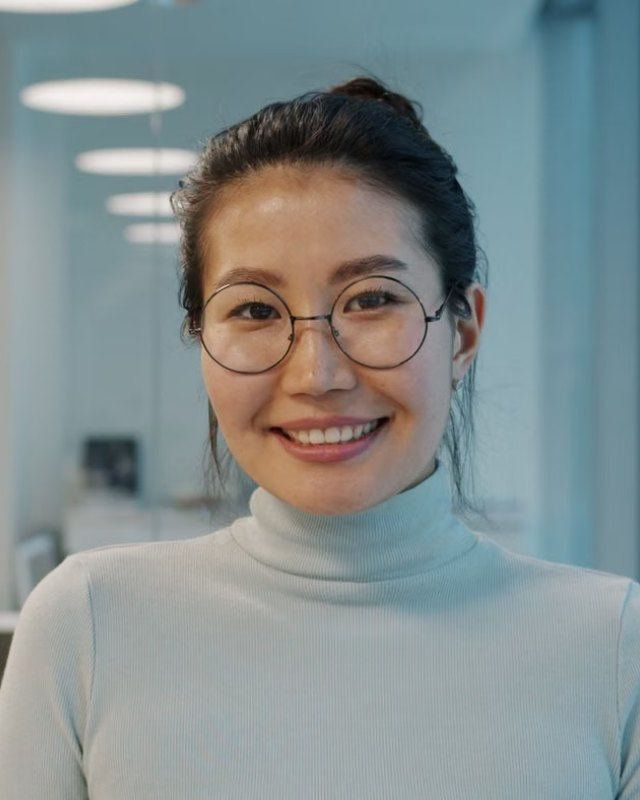
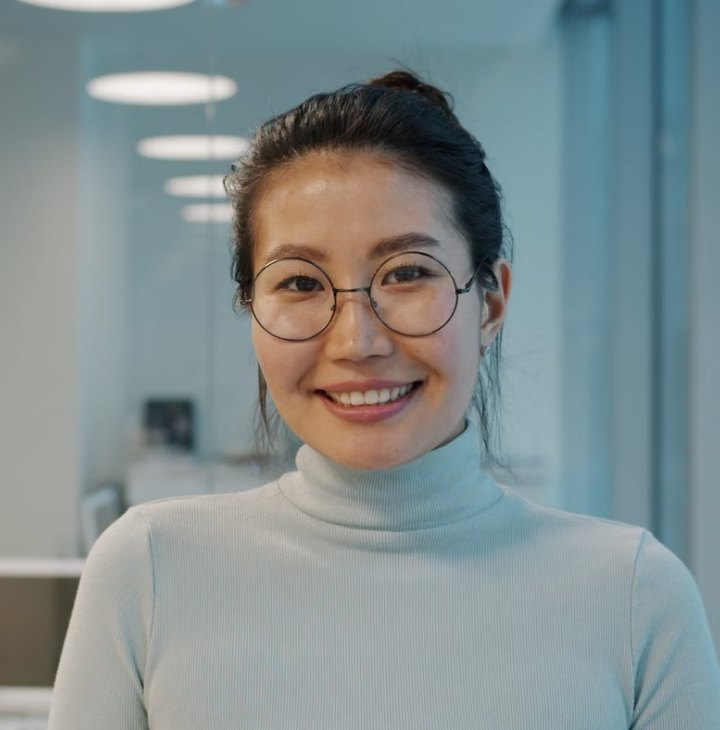
The photo leads again, and the badge is the real mark
The card goes back to the layout that was working: the photograph is
the card and the quote sits in its foot. That only ever failed because
of the casting, not the composition — so with faces looking back at
you it earns more room than it had, and the card grows to 288x384 with
a 292px photo window.

The portraits are re-cut at that window's own aspect, so cover has
nothing left to trim and nobody loses the top of their head.

The provenance badge is a real logo now, not a monochrome glyph: the
App Store's blue tile and white A rather than the Apple mark, Google
Play's coloured triangle on white, X and TikTok on black with TikTok's
cyan and magenta offsets intact. It sits on the photograph with its
own shadow so it stays legible over any image.

The loader's three questions are replaced with the ones asked for —
how the two words felt, whether a name or place tripped them up, and
whether they want more of this — in English, French, Italian and
Portuguese, options included.

diff --git a/app.js b/app.js
@@ -614,18 +614,43 @@ function railAutoSlide(rail, { interval = 3200, firstDelay = null, onActive = nu
 /* ---------- testimonials ----------
    Posts read in the user's language; each one carries the icon of the
    store/network it came from. */
+/* Real store / network marks, not monochrome glyphs: the badge is
+   doing credibility work, so it has to look like the thing it is.
+   Drawn as tiles because that is how these logos are recognised. */
 const SRC_ICONS = {
-  x: '<svg viewBox="0 0 24 24" fill="currentColor"><path d="M17.6 3h3l-6.6 7.55L21.8 21h-6.1l-4.8-6.3L5.4 21h-3l7.1-8.1L2.5 3h6.25l4.35 5.75L17.6 3Zm-1.05 16.2h1.7L7.85 4.7H6.05l10.5 14.5Z"/></svg>',
-  play: '<svg viewBox="0 0 24 24"><path fill="#34A853" d="M3 20.42V3.58c0-.6.34-1.12.85-1.37L13.6 12 3.85 21.79A1.53 1.53 0 0 1 3 20.42Z"/><path fill="#EA4335" d="M16.81 15.36 6.15 21.42l8.4-8.4 2.26 2.34Z"/><path fill="#FBBC04" d="M20.16 10.83c.5.3.84.85.84 1.17 0 .32-.3.87-.81 1.17l-2.22 1.28-2.5-2.45 2.5-2.45 2.19 1.28Z"/><path fill="#4285F4" d="M6.15 2.58l10.66 6.06-2.26 2.34-8.4-8.4Z"/></svg>',
-  app: '<svg viewBox="0 0 24 24" fill="currentColor"><path d="M16.36 12.5c.02-2.02 1.65-2.99 1.72-3.04-.94-1.37-2.4-1.56-2.92-1.58-1.24-.13-2.42.73-3.05.73-.63 0-1.6-.71-2.63-.69-1.35.02-2.6.79-3.29 2-1.4 2.43-.36 6.03 1.01 8 .67.96 1.47 2.04 2.51 2 1.01-.04 1.39-.65 2.61-.65s1.57.65 2.63.63c1.09-.02 1.78-.98 2.44-1.95.77-1.11 1.09-2.19 1.11-2.25-.02-.01-2.13-.82-2.15-3.25ZM14.4 6.6c.56-.68.93-1.62.83-2.56-.8.03-1.78.53-2.35 1.21-.51.6-.96 1.56-.84 2.48.89.07 1.8-.45 2.36-1.13Z"/></svg>',
-
-  tiktok: '<svg viewBox="0 0 24 24" fill="currentColor"><path d="M16.6 5.82A4.28 4.28 0 0 1 15.54 3h-3.09v12.4a2.59 2.59 0 1 1-1.82-2.47v-3.1a5.68 5.68 0 1 0 4.91 5.62V9.01a7.35 7.35 0 0 0 4.3 1.38V7.3a4.29 4.29 0 0 1-3.24-1.48Z"/></svg>',
+  app: `<svg viewBox="0 0 32 32">
+      <defs><linearGradient id="asG" x1="0" y1="0" x2="0" y2="1">
+        <stop offset="0" stop-color="#1FC8FC"/><stop offset="1" stop-color="#1273EE"/>
+      </linearGradient></defs>
+      <rect width="32" height="32" rx="7.4" fill="url(#asG)"/>
+      <g stroke="#fff" stroke-width="2.4" stroke-linecap="round" fill="none">
+        <path d="M9.2 22.6 16 10.2l6.8 12.4"/><path d="M11.9 18.4h8.2"/>
+      </g>
+    </svg>`,
+  play: `<svg viewBox="0 0 32 32">
+      <rect width="32" height="32" rx="7.4" fill="#fff"/>
+      <g transform="translate(7 6.4) scale(.805)">
+        <path fill="#34A853" d="M0 22.9V1.1c0-.78.44-1.45 1.1-1.77L13.7 12 1.1 24.67A1.98 1.98 0 0 1 0 22.9Z"/>
+        <path fill="#EA4335" d="M17.9 16.35 4.1 24.2 15 13.33l2.9 3.02Z"/>
+        <path fill="#FBBC04" d="M22.24 10.5c.65.38 1.09 1.1 1.09 1.5s-.39 1.13-1.05 1.51l-2.87 1.66-3.24-3.17 3.24-3.17 2.83 1.67Z"/>
+        <path fill="#4285F4" d="M4.1 -.2 17.9 7.65 15 10.67 4.1 -.2Z"/>
+      </g>
+    </svg>`,
+  x: `<svg viewBox="0 0 32 32">
+      <rect width="32" height="32" rx="7.4" fill="#000"/>
+      <path fill="#fff" d="M20.6 8h2.6l-5.7 6.5L24 24h-5.2l-4.1-5.4L9.9 24H7.3l6.1-7L7 8h5.4l3.7 4.9L20.6 8Zm-.9 14.5h1.45L12.4 9.4h-1.55l8.85 13.1Z"/>
+    </svg>`,
+  tiktok: `<svg viewBox="0 0 32 32">
+      <rect width="32" height="32" rx="7.4" fill="#000"/>
+      <g transform="translate(4 4)">
+        <path fill="#25F4EE" d="M15.7 4.82A4.28 4.28 0 0 1 14.64 2h-3.09v12.4a2.59 2.59 0 1 1-1.82-2.47v-3.1a5.68 5.68 0 1 0 4.91 5.62V8.01a7.35 7.35 0 0 0 4.3 1.38V6.3a4.29 4.29 0 0 1-3.24-1.48Z"/>
+        <path fill="#FE2C55" d="M17.5 6.82A4.28 4.28 0 0 1 16.44 4h-3.09v12.4a2.59 2.59 0 1 1-1.82-2.47v-3.1a5.68 5.68 0 1 0 4.91 5.62V10.01a7.35 7.35 0 0 0 4.3 1.38V8.3a4.29 4.29 0 0 1-3.24-1.48Z"/>
+        <path fill="#fff" d="M16.6 5.82A4.28 4.28 0 0 1 15.54 3h-3.09v12.4a2.59 2.59 0 1 1-1.82-2.47v-3.1a5.68 5.68 0 1 0 4.91 5.62V9.01a7.35 7.35 0 0 0 4.3 1.38V7.3a4.29 4.29 0 0 1-3.24-1.48Z"/>
+      </g>
+    </svg>`,
 };
 /* how the quote is labelled — the store or network it came off */
 const SRC_LABEL = { app: 'App Store', play: 'Google Play', x: 'X', tiktok: 'TikTok' };
-const STAR5 = '<svg viewBox="0 0 24 24" fill="currentColor"><path d="M12 2.6l2.85 5.9 6.5.88-4.72 4.5 1.16 6.4L12 17.15 6.21 20.3l1.16-6.4-4.72-4.5 6.5-.89z"/></svg>'.repeat(5);
-const T_AVATARS = ['avatar-syahrier.png', 'avatar-t2.png', 'avatar-t3.png'];
-const T_SOURCES = ['x', 'play', 'app'];
 
 async function testimonialCarousel(goal){
   const list = (C.TESTIMONIALS[goal] || C.TESTIMONIALS.career);
@@ -633,13 +658,14 @@ async function testimonialCarousel(goal){
   const rail = wrap.querySelector('.testimonial-rail');
   list.forEach(t => rail.appendChild(el(`
     <div class="t-card">
-      <div class="tc-head">
-        <img class="tc-av" src="assets/people/${t.img}-face.jpg" alt="">
+      <img class="tc-photo" src="assets/people/${t.img}.jpg" alt="">
+      <div class="tc-scrim"></div>
+      <i class="tc-src" title="${SRC_LABEL[t.s] || ''}">${SRC_ICONS[t.s] || SRC_ICONS.app}</i>
+      <div class="tc-body">
+        <p class="tc-quote">\u201C${t.q}\u201D</p>
+        <i class="tc-rule"></i>
         <div class="tc-who"><b>${t.n}</b><span>${t.r}</span></div>
-        <i class="tc-src tcs-${t.s || 'app'}" title="${SRC_LABEL[t.s] || ''}">${SRC_ICONS[t.s] || SRC_ICONS.app}</i>
       </div>
-      <span class="tc-stars">${STAR5}</span>
-      <p class="tc-quote">\u201C${t.q}\u201D</p>
     </div>`)));
   chatStream.appendChild(wrap);
   scrollToEnd();
@@ -2129,9 +2155,11 @@ const LDR_STEPS = [
   'Shaping your roadmap',
 ];
 const LDR_QS = [
-  { q: null, opts: ['Too easy', 'Just right', 'Still tricky'] },   /* q filled with the drill words */
-  { q: 'Did your score match how you think you speak?', opts: ['Spot on', 'Close', 'Harsher than I expected'] },
-  { q: 'How do you feel about your starting score?', opts: ['Proud of it', "It's okay", 'I want it higher'] },
+  { q: null, opts: ['Easy', 'Just right', 'Hard'] },   /* q filled with the drill words */
+  { q: 'Did you get a pronunciation mistake while saying a name or place?',
+    opts: ['Yes', 'No', 'Not sure'] },
+  { q: 'Would you like to practice more words like these?',
+    opts: ['Yes, more', 'This is enough', 'Fewer'] },
 ];
 function ldrRing(pct){
   $('ldrArc').setAttribute('stroke-dasharray', `${440 * pct / 100} 440`);
@@ -2200,7 +2228,7 @@ async function planLoader(didPron, goal){
 
   if (didPron){
     /* Q1 names their own drill words */
-    LDR_QS[0].q = CL('How did practicing \u201C{a}\u201D and \u201C{b}\u201D feel?')
+    LDR_QS[0].q = CL('How was it to say \u201C{a} and {b}\u201D?')
       .replace('{a}', PRON_WORDS[0].w).replace('{b}', PRON_WORDS[1].w);
     await wait(FF ? 40 : 900);
     ldrStepState(['done', 'done', 'on', '']);

diff --git a/styles.css b/styles.css
@@ -3512,75 +3512,64 @@ body{
 .gp-line{font-family:var(--font-body);font-size:14.5px;line-height:19px;color:var(--text-low);}
 .gp-line b{color:var(--text-hi);font-weight:600;}
 
-/* --- 3. testimonials: the quote is the card ------------------
-   The photo used to be the card and the words sat on top of it, which
-   made every one of them read as advertising. Now the face is an
-   avatar, the quote is the hero, and a store badge says where the
-   review came from — the shape people already trust. */
+/* --- 3. photo testimonials (Beside) ------------------------
+   The photo leads and the words sit in its foot. It only works when
+   the photograph is a person looking back at you, which is what the
+   2026-09-04 recast is for — so the card is bigger than it was, to
+   give those faces the room they earn. */
 .t-card{
   position:relative;
   flex-shrink:0;
-  width:270px;
-  min-height:186px;
-  border-radius:20px;
+  width:288px;
+  height:384px;
+  border-radius:22px;
   overflow:hidden;
-  display:flex;
-  flex-direction:column;
-  gap:11px;
-  padding:16px 16px 18px;
   /* Warm charcoal against the cool blue page: it separates by
-     temperature rather than by an indigo glow. */
+     temperature rather than by an indigo glow, which was doing the
+     lifting before and reading as a halo stuck on a flat rectangle. */
   background:#211D1B;
   scroll-snap-align:center;
   border:1px solid rgba(255,255,255,.085);
+  padding:0;
   backdrop-filter:none;
   box-shadow:
-    0 18px 40px -16px rgba(0,0,0,.85),
+    0 20px 46px -16px rgba(0,0,0,.85),
     inset 0 1px 0 rgba(255,255,255,.06);
 }
 .t-card::after{content:none;}
-.tc-head{display:flex;align-items:center;gap:10px;}
-.tc-av{
-  width:42px;height:42px;flex:0 0 42px;
-  border-radius:50%;
-  object-fit:cover;
-  display:block;
-  border:1px solid rgba(255,255,255,.14);
+/* The photo is masked out at its foot instead of stopping on a line,
+   so it dissolves into the card rather than sitting on top of it.
+   The crops are cut at this window's exact aspect (720x730), so cover
+   has nothing left to trim and no head loses its top. */
+.tc-photo{
+  position:absolute;inset:0 0 auto 0;width:100%;height:292px;
+  object-fit:cover;display:block;
+  -webkit-mask-image:linear-gradient(180deg,#000 0%,#000 44%,rgba(0,0,0,.72) 66%,rgba(0,0,0,.28) 84%,transparent 100%);
+          mask-image:linear-gradient(180deg,#000 0%,#000 44%,rgba(0,0,0,.72) 66%,rgba(0,0,0,.28) 84%,transparent 100%);
 }
-.tc-who{min-width:0;flex:1;}
-.tc-who b{
-  display:block;
-  font-family:var(--font-display);font-weight:600;font-size:14px;
-  color:var(--text-hi);
-  white-space:nowrap;overflow:hidden;text-overflow:ellipsis;
+.tc-scrim{
+  position:absolute;left:0;right:0;top:148px;height:236px;
+  background:linear-gradient(180deg,rgba(33,29,27,0),rgba(33,29,27,.72) 48%,rgba(33,29,27,.96) 78%,#211D1B);
 }
-.tc-who span{
-  display:block;
-  font-family:var(--font-body);font-size:12px;line-height:16px;
-  color:var(--text-low);
-  white-space:nowrap;overflow:hidden;text-overflow:ellipsis;
-}
-/* the badge keeps each network's own mark and colour, small enough
-   to read as provenance rather than as a logo placement */
+/* where the review came from, as the real mark. It sits on the photo,
+   so it carries its own shadow to stay legible over anything. */
 .tc-src{
-  flex:0 0 22px;
-  width:22px;height:22px;
-  display:flex;align-items:center;justify-content:center;
-  opacity:.9;
+  position:absolute;top:14px;right:14px;
+  width:30px;height:30px;
+  display:block;
+  border-radius:7px;
+  overflow:hidden;
+  box-shadow:0 3px 10px rgba(0,0,0,.45), 0 0 0 1px rgba(255,255,255,.14);
 }
 .tc-src svg{width:100%;height:100%;display:block;}
-.tcs-app{color:#F2F0FA;}
-.tcs-x{color:#F2F0FA;}
-.tcs-tiktok{color:#F2F0FA;}
-.tc-stars{display:flex;gap:2px;color:#D9A24A;}
-.tc-stars svg{width:13px;height:13px;display:block;}
+.tc-body{position:absolute;left:0;right:0;bottom:0;padding:18px;display:flex;flex-direction:column;gap:10px;}
 .tc-quote{
-  margin:0;
-  font-family:var(--font-display);font-weight:600;
-  font-size:16px;line-height:23px;
-  letter-spacing:-.01em;
-  color:#fff;
+  margin:0;font-family:var(--font-display);font-weight:600;
+  font-size:16.5px;line-height:23px;letter-spacing:-.01em;color:#fff;
 }
+.tc-rule{height:1px;background:rgba(255,255,255,.16);}
+.tc-who b{display:block;font-family:var(--font-display);font-weight:600;font-size:14px;color:var(--text-mid);}
+.tc-who span{font-family:var(--font-body);font-size:13px;color:var(--text-low);}
 
 /* --- 4. the iOS system alert ------------------------------- */
 .ios-alert-wrap{

diff --git a/i18n.js b/i18n.js
@@ -315,6 +315,18 @@ const STR = {
     graph_title: 'Dans les 8 prochains mois,<br>on t’emmène vers <span class="lav">« Avancé »</span>',
     graph_body: 'Au cours des 8 prochains mois, tu feras progresser ta prononciation, ta grammaire, ta fluidité et ton vocabulaire, avec des progrès visibles chaque mois.',
     content: {
+      "How was it to say “{a} and {b}”?": "C’était comment de dire « {a} » et « {b} » ?",
+      "Easy": "Facile",
+      "Just right": "Juste bien",
+      "Hard": "Difficile",
+      "Did you get a pronunciation mistake while saying a name or place?": "As-tu fait une erreur de prononciation sur un nom ou un lieu ?",
+      "Yes": "Oui",
+      "No": "Non",
+      "Not sure": "Je ne sais pas",
+      "Would you like to practice more words like these?": "Tu veux travailler d’autres mots comme ceux-là ?",
+      "Yes, more": "Oui, plus",
+      "This is enough": "C’est suffisant",
+      "Fewer": "Moins",
       "Checking each word": "Je vérifie chaque mot",
       "Scoring your sounds": "J’évalue tes sons",
       "Still with you": "Je suis toujours là",
@@ -817,6 +829,18 @@ const STR = {
     graph_title: 'Nei prossimi 8 mesi<br>ti portiamo ad <span class="lav">“Avanzato”</span>',
     graph_body: 'Nei prossimi 8 mesi migliorerai pronuncia, grammatica, fluidità e vocabolario, con progressi visibili ogni mese.',
     content: {
+      "How was it to say “{a} and {b}”?": "Com’è stato dire “{a}” e “{b}”?",
+      "Easy": "Facile",
+      "Just right": "Giusto così",
+      "Hard": "Difficile",
+      "Did you get a pronunciation mistake while saying a name or place?": "Hai sbagliato la pronuncia di un nome o di un luogo?",
+      "Yes": "Sì",
+      "No": "No",
+      "Not sure": "Non saprei",
+      "Would you like to practice more words like these?": "Vuoi allenarti su altre parole come queste?",
+      "Yes, more": "Sì, di più",
+      "This is enough": "Basta così",
+      "Fewer": "Di meno",
       "Checking each word": "Controllo ogni parola",
       "Scoring your sounds": "Valuto i tuoi suoni",
       "Still with you": "Sono ancora qui",
@@ -1319,6 +1343,18 @@ const STR = {
     graph_title: 'Nos próximos 8 meses, vamos<br>levar-te até <span class="lav">“Avançado”</span>',
     graph_body: 'Ao longo dos próximos 8 meses, vais subir de nível em pronúncia, gramática, fluência e vocabulário, com progresso visível todos os meses.',
     content: {
+      "How was it to say “{a} and {b}”?": "Como foi dizer “{a}” e “{b}”?",
+      "Easy": "Fácil",
+      "Just right": "No ponto",
+      "Hard": "Difícil",
+      "Did you get a pronunciation mistake while saying a name or place?": "Enganaste-te na pronúncia de um nome ou de um lugar?",
+      "Yes": "Sim",
+      "No": "Não",
+      "Not sure": "Não tenho a certeza",
+      "Would you like to practice more words like these?": "Queres praticar mais palavras como estas?",
+      "Yes, more": "Sim, mais",
+      "This is enough": "Já chega",
+      "Fewer": "Menos",
       "Checking each word": "A verificar cada palavra",
       "Scoring your sounds": "A avaliar os teus sons",
       "Still with you": "Ainda estou contigo",
